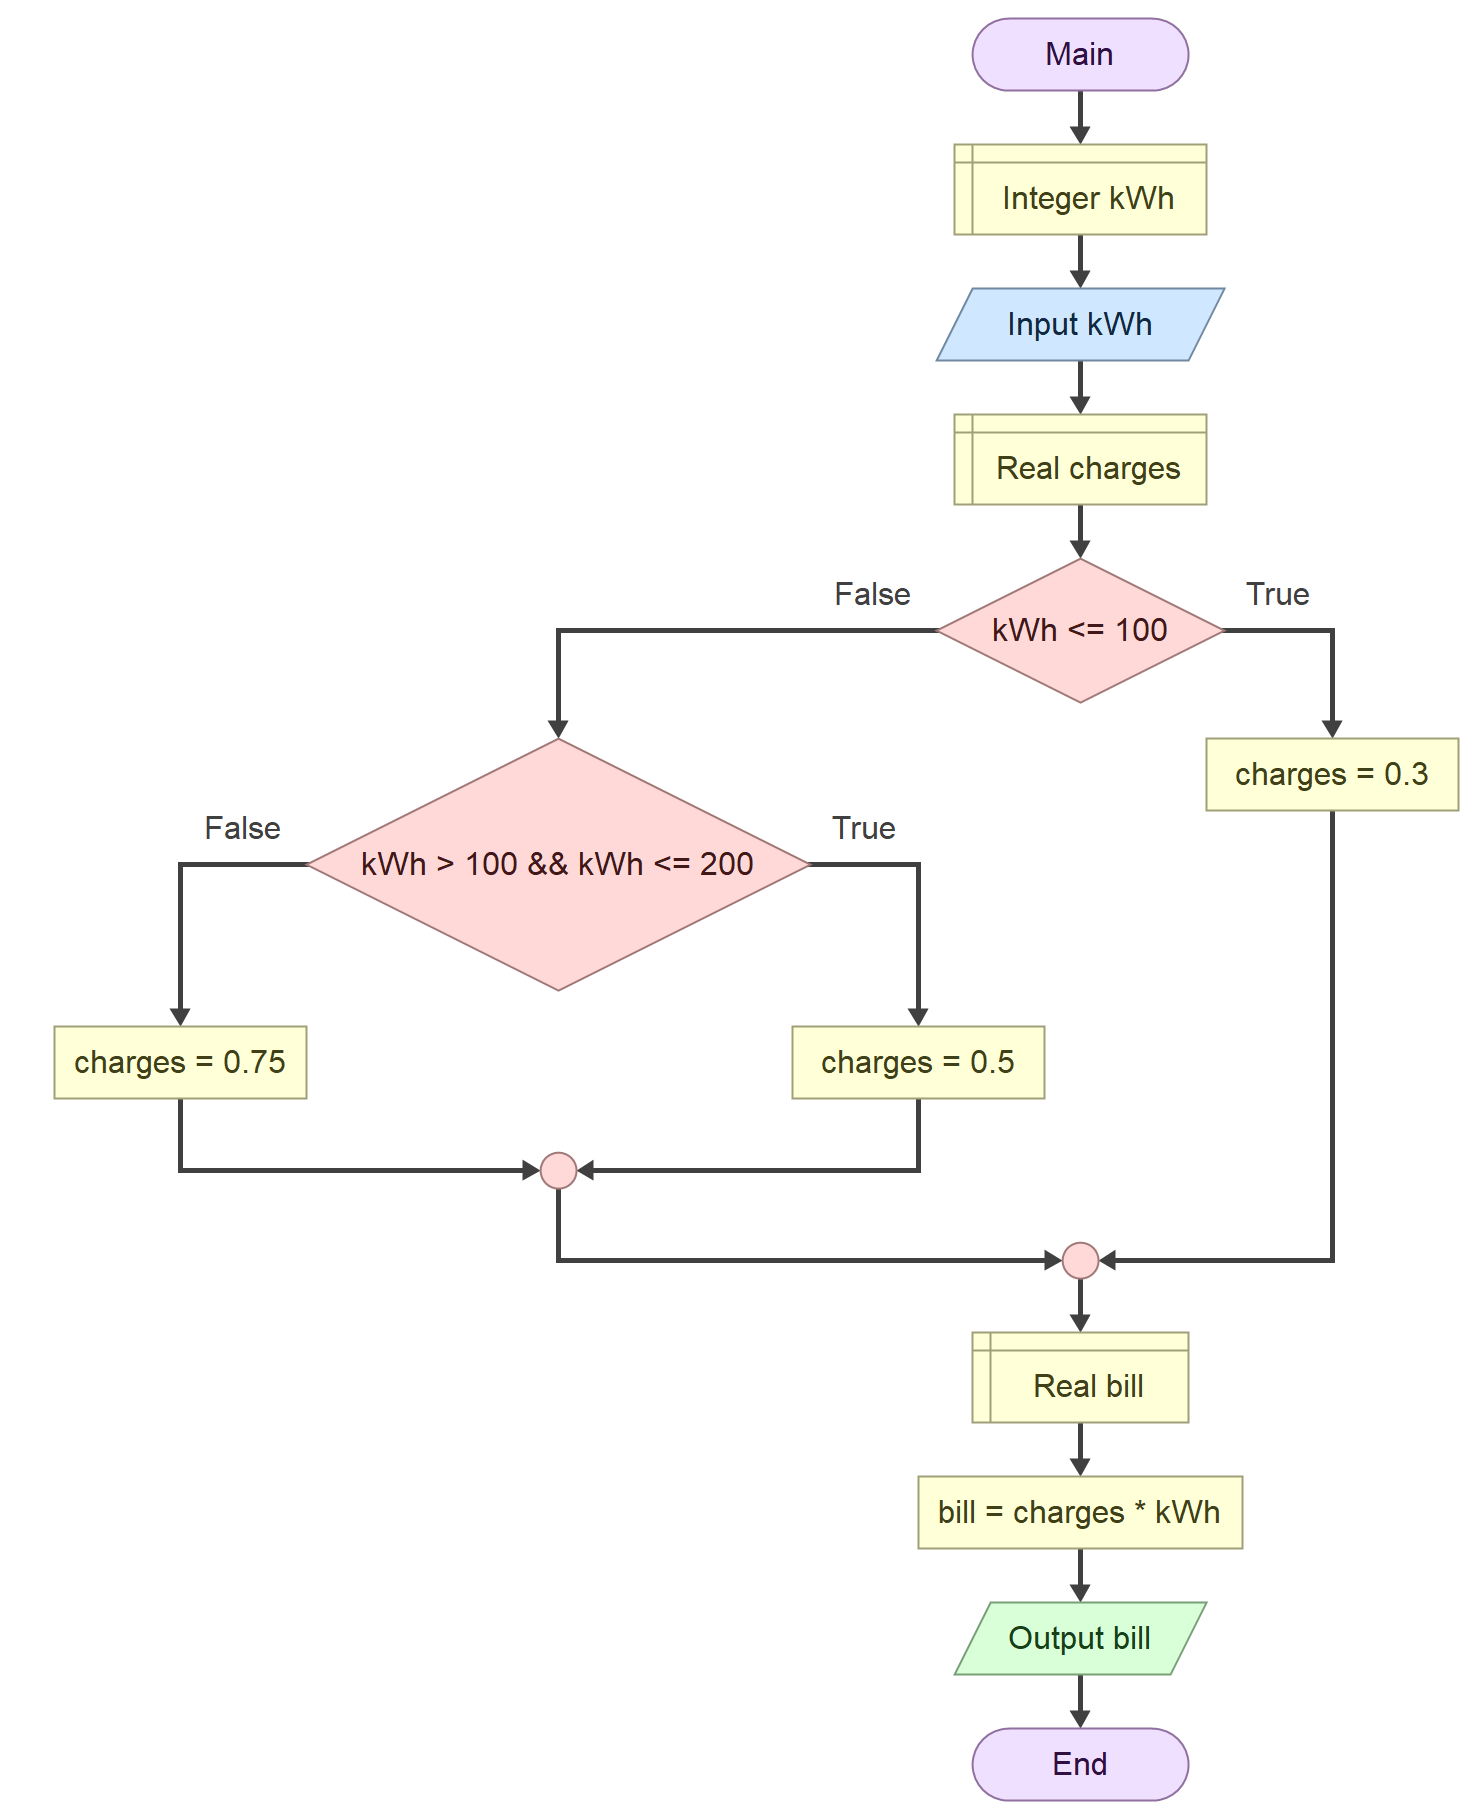
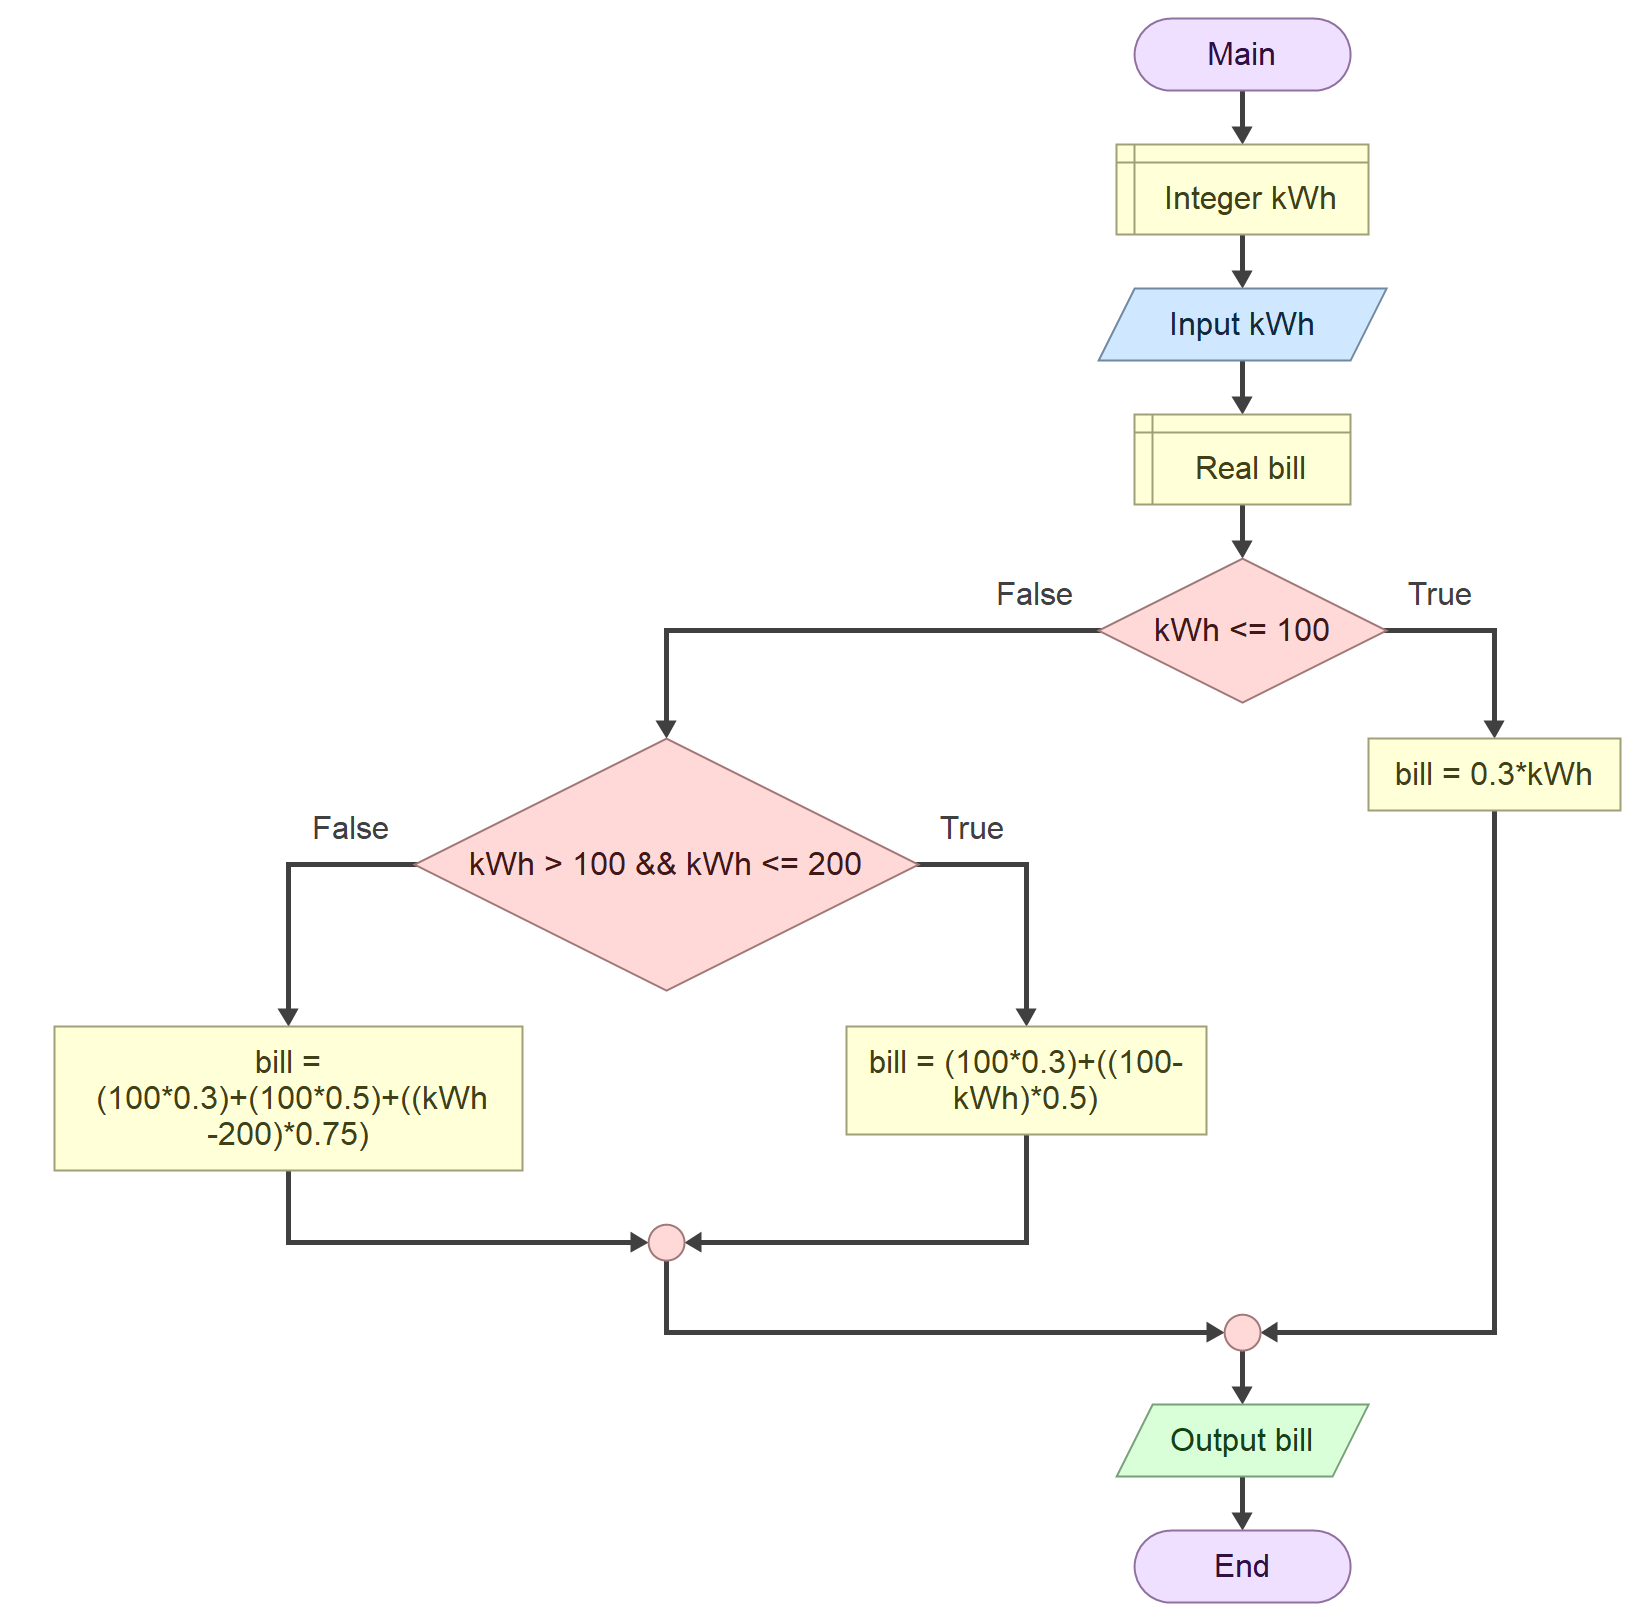
exercise1

Changed region(s): [[0.0311, 0.0, 0.9966, 1.0], [0.3737, 0.7403, 0.436, 0.8328], [0.1557, 0.4318, 0.1869, 0.4627]]

diff --git a/labs/lab04/exercise1/lab-4-1.py b/labs/lab04/exercise1/lab-4-1.py
@@ -1,10 +1,9 @@
 kWh = int(input())
 if kWh <= 100:
-    charges = 0.3
+    bill = 0.3 * kWh
 else:
     if kWh > 100 and kWh <= 200:
-        charges = 0.5
+        bill = 100 * 0.3 + 100 - kWh * 0.5
     else:
-        charges = 0.75
-bill = charges * kWh
+        bill = 100 * 0.3 + 100 * 0.5 + kWh - 200 * 0.75
 print(bill)